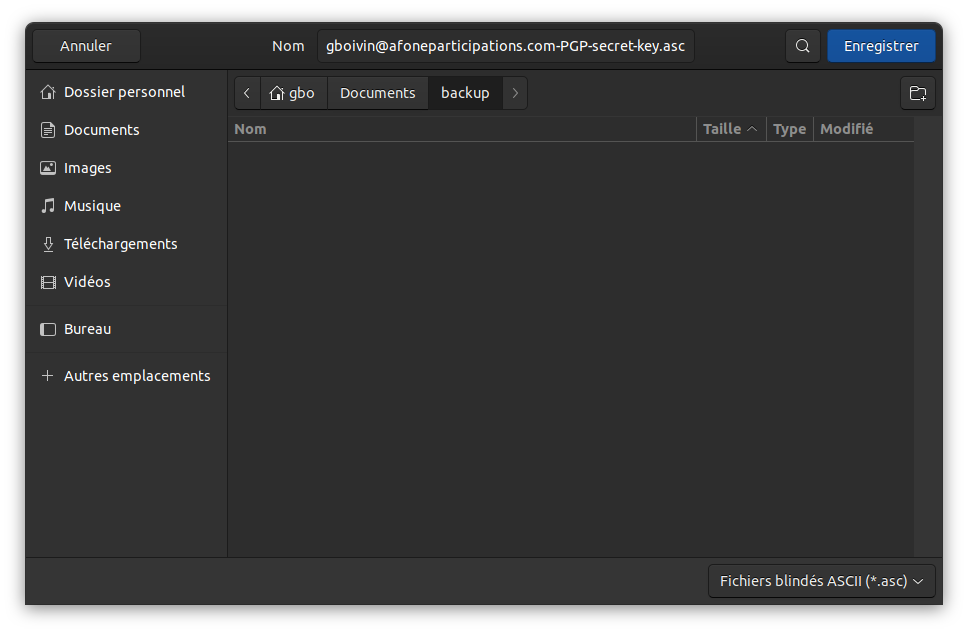
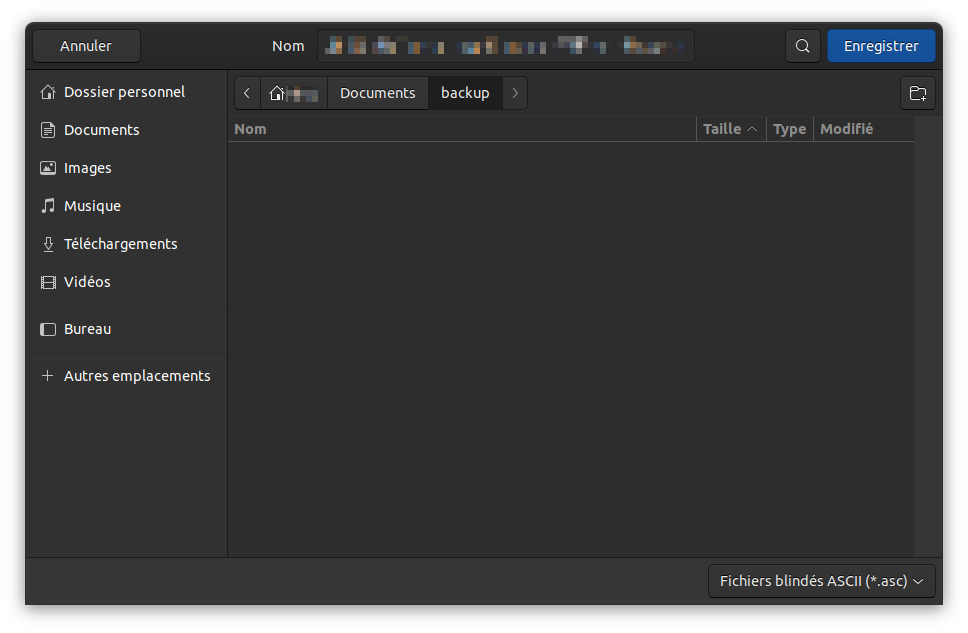
Pixelisation des infos sensibles sur le post Configuration PGP

Changed region(s): [[0.3409, 0.06, 0.7128, 0.09], [0.2789, 0.1201, 0.3409, 0.1801]]

diff --git a/content/posts/2021-11-18-Configurer-PGP-sur-Thunderbird/index.md b/content/posts/2021-11-18-Configurer-PGP-sur-Thunderbird/index.md
@@ -19,7 +19,7 @@ params:
 ShowToc: true
 ---
 
-## Présentation succinte
+# Présentation succinte
 
 PGP (Pretty Good Privacy) est un système de chiffrement open-source, couramment utilisé pour le chiffrage d’emails ou de fichiers.
 
@@ -29,7 +29,7 @@ Tout d’abord, ce système est à l’origine un  "freeware" (logiciel gratuit)
 
 En outre, PGP utilise à la fois le chiffrement symétrique et le chiffrement par clé publique. Ceci permet à des utilisateurs de s’envoyer des messages chiffrés, sans même avoir besoin d’échanger des clés de chiffrement privées au préalable. Ainsi, le PGP permet de renforcer facilement et à moindre coût la sécurité des emails.
 
-## Fonctionnement de PGP
+# Fonctionnement de PGP
 
 Il existe de nombreux systèmes de chiffrement. En guise d’exemples, on peut citer SSL pour le chiffrement de sites web, ou Kerberos pour l’authentification des utilisateurs d’un réseau.
 
@@ -46,23 +46,28 @@ Le chiffrement symétrique est plus rapide que le chiffrement par clé publique,
 C’est la raison pour laquelle on utilise une clé de chiffrement publique pour chiffrer la clé de session. Ainsi, PGP combine l’efficacité du chiffrement symétrique et la sécurité du chiffrement par clé publique.
 
 
-## Configuration des clients mails
+# Configuration des clients mails
 
-### Thunderbird
+## Thunderbird
 
-#### Générer sa clé PGP
+### Générer sa clé PGPk
 
 Le client mail Thunderbird supporte nativement OpenPGP depuis la version 78.
 
 1. Aller dans Parametres de comptes > Choisir votre compte > Chiffrement de bout en bout.
 
-![](img/thunderbolt-configuration-pgp-0.png#center)
 
 2. Cliquer sur Ajouter une clé ...
 
-![](img/thunderbolt-configuration-pgp-1.png#center)
+![](img/thunderbolt-configuration-pgp-0.png#center)
+
 
 3. Ensuite, créer une clé OpenPGP
+
+![](img/thunderbolt-configuration-pgp-1.png#center)
+
+
+4. Générer la clé
 
 ![](img/thunderbolt-configuration-pgp-2.png#center)
 
@@ -71,7 +76,6 @@ Type de clé: RSA
 Taille de la clé: plus fort possible (ici 4096)
 ```
 
-4. Générer la clé
 
 ![](img/thunderbolt-configuration-pgp-3.png#center)
 ![](img/thunderbolt-configuration-pgp-4.png#center)
@@ -79,8 +83,6 @@ Taille de la clé: plus fort possible (ici 4096)
 5. Sauvegarder ses clés
 
 Cliquer sur la clé nouvellement crée et sur *Plus* > *sauvegarder la clé secrete dans un fichier* afin de la sauvergarder dans un endroit sur. (Gestionnaire de password ?)
-
-![](img/thunderbolt-configuration-pgp-5.png#center)
 
 Ajouter un mot de passe lors de l'export de la clé.
 
@@ -93,7 +95,8 @@ Faire de même pour la clé publique (pas de mot de passe requis).
 
 ![](img/thunderbolt-configuration-pgp-8.png#center)
 
-#### Importer les clés publiques des correspondants avec qui on souhaite chiffré ses mails
+### Importer les clés publiques des correspondants avec qui on souhaite chiffré ses mails
 
 Afin de pouvoir échangé de manière chiffrée, il est nécéssaire d'ajouter la clé publique de vos destinataires dans le gestionnaire de clé de thunderbird.
+
 
